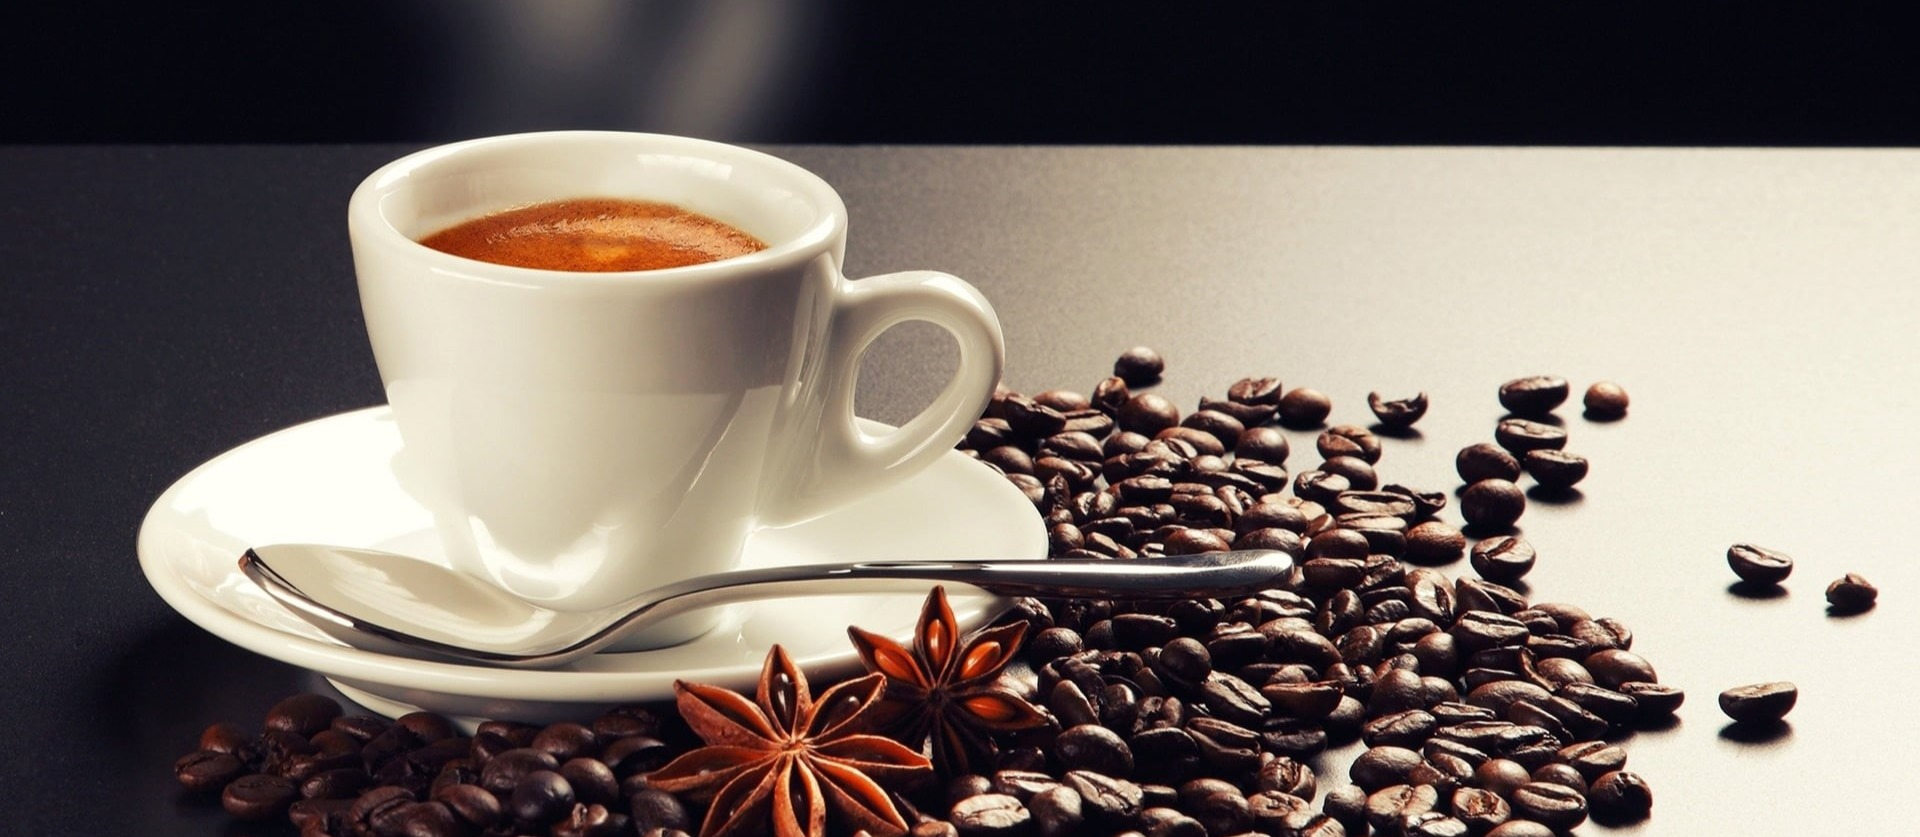
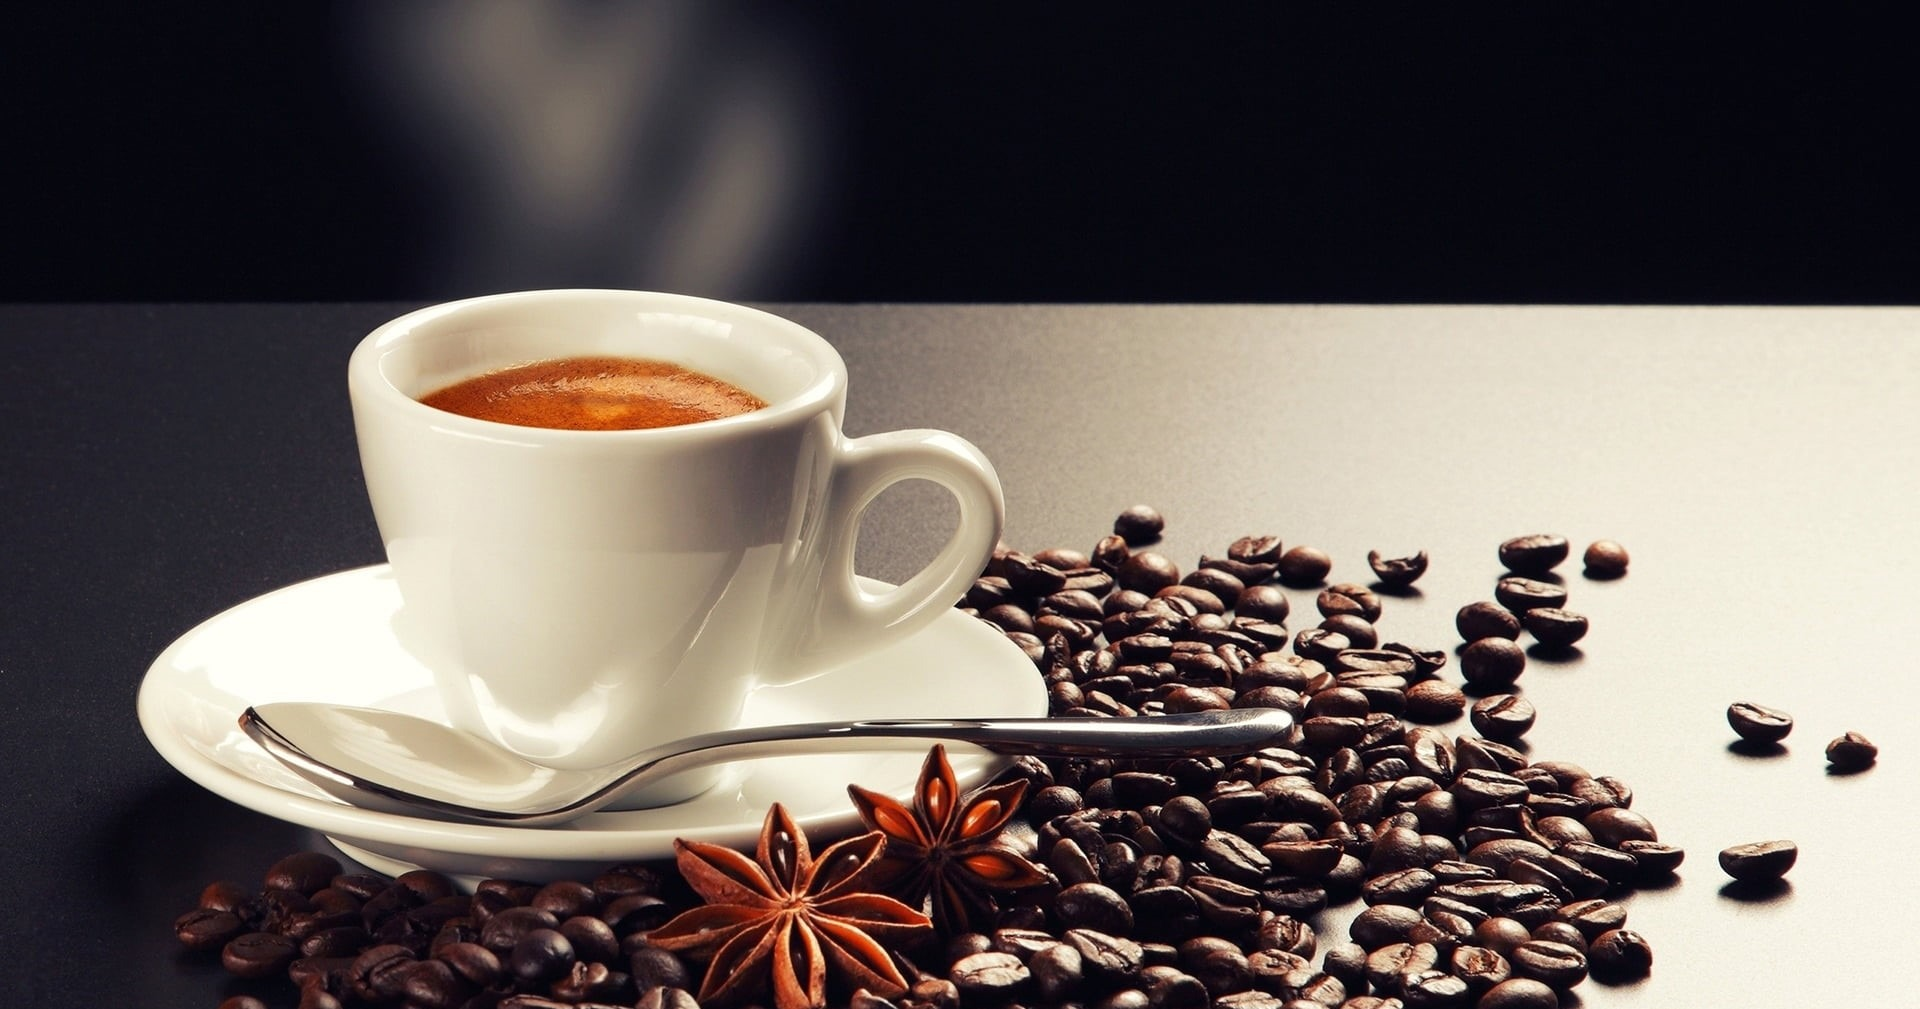
hero image animation

diff --git a/frontend/src/pages/LandingPage.jsx b/frontend/src/pages/LandingPage.jsx
@@ -1,18 +1,51 @@
 import React from 'react';
+import { useState, useEffect } from 'react';
 import API from '../api/axios';
 import '../styles/LandingPage.css';
 import Header from '../components/Header';
 import heroImage from '../assets/coffeehero.jpg';
 
 export default function LandingPage() {
+    const [scrollY, setScrollY] = useState(0);
+
+    useEffect(() => {
+        let ticking = false;
+
+        const handleScroll = () => {
+            if (!ticking) {
+                window.requestAnimationFrame(() => {
+                    const currentScrollY = window.scrollY;
+                    setScrollY(currentScrollY > 500 ? 500 : currentScrollY);
+                    ticking = false;
+                });
+                ticking = true;
+            }
+        };
+        window.addEventListener('scroll', handleScroll);
+        return () => {
+            window.removeEventListener('scroll', handleScroll);
+        };
+    }, []);
+
+    const imageScale = Math.max(0.8, 1 - scrollY * 0.00028);
+
     return (
-        <div className="container">
+        <div className="container" style={{ position: 'relative', overflowX: 'hidden' }}>
             <Header />
             <div className="hero-intro" style={{ marginTop: '10vh' }}>
                 <h1 style={{ fontSize: '2.3rem', marginTop: '1.6rem' }}>Simplicity in Every Sips</h1>
                 <p style={{ marginTop: '0.5rem', marginBottom: '0', fontSize: '1.1rem' }}>Premium blends. Minimum effort.</p>
                 <button className='shop-now-button'>Shop Now</button>
-                <img src={heroImage} alt="Coffee Hero" className='hero-image' />
+                <img src={heroImage} alt="Coffee Hero" className='hero-image' style={{ transform: `scale(${imageScale})` }} />
+            </div>
+            <div className='latest-arrivals'>
+                <h1 style={{ fontSize: '2.3rem', marginTop: '1.6rem' }}>
+                    Our Hottest Products</h1>
+                <p style={{ marginTop: '0.5rem', marginBottom: '0', fontSize: '1.1rem' }}>
+                    Signature selections that define our taste and quality.</p>
+                <div className='latest-products'>
+
+                </div>
             </div>
         </div>
     );

diff --git a/frontend/src/styles/LandingPage.css b/frontend/src/styles/LandingPage.css
@@ -34,7 +34,7 @@ h1 {
 
 }
 
-.hero-intro {
+.hero-intro, .latest-arrivals {
     width: 100%;
     height: 100%;
     display: flex;
@@ -52,12 +52,21 @@ h1 {
 }
 
 .hero-image {
-    width: 70vw;
-    height: auto;
-    /* max-height: 80vh; */
+    width: 75%;
+    height: 90%;
+    z-index: 0;
+    transition: transform 0.2s ease-in-out;
+    /* filter: brightness(1); */
     object-fit: cover;
     border-radius: 4px;
     box-shadow: 0 4px 8px rgba(0, 0, 0, 0.1);
-    margin-bottom: 25rem;
+    margin-bottom: 2rem;
 }
+
+.latest-products {
+    width: 80vw;
+    height: 80vh;
+    border: 1px solid black;
+}
+
 

diff --git a/frontend/src/styles/Header.css b/frontend/src/styles/Header.css
@@ -1,6 +1,6 @@
 .header-container {
     width: 100vw;
-    height: 11vh;
+    height: 10vh;
     border-bottom: 4px solid #A31621;
     display: flex;
     flex-direction: row;
